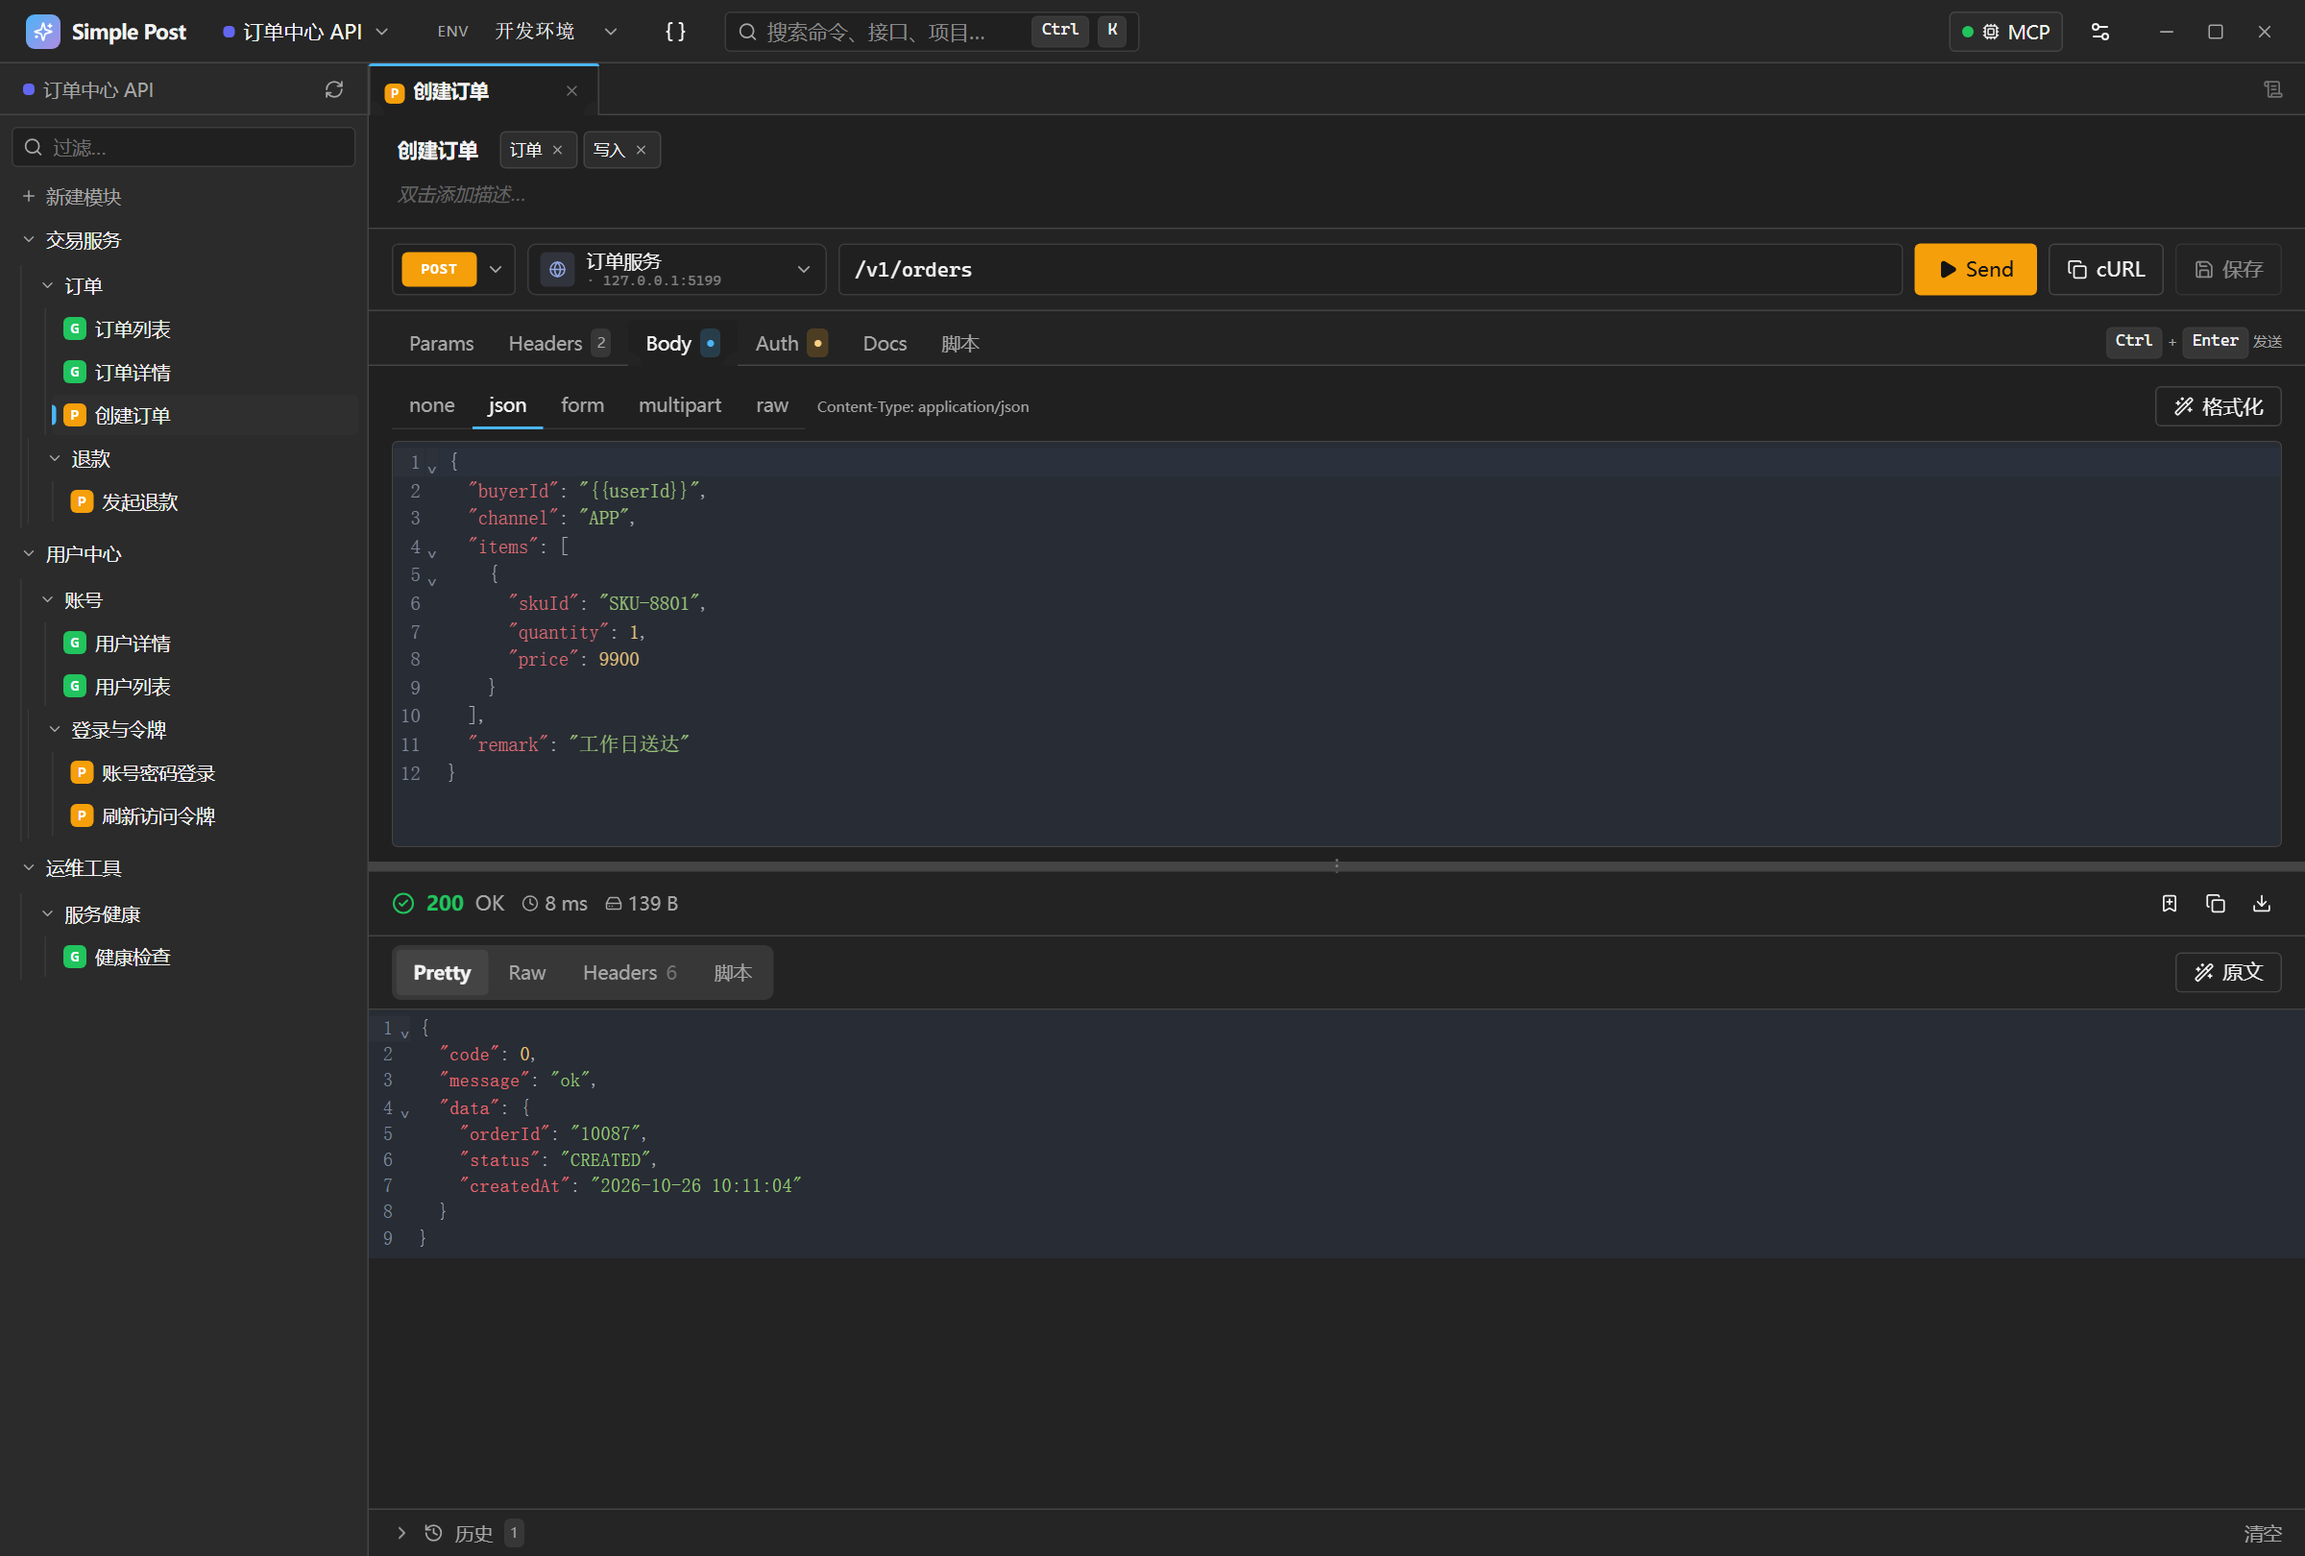
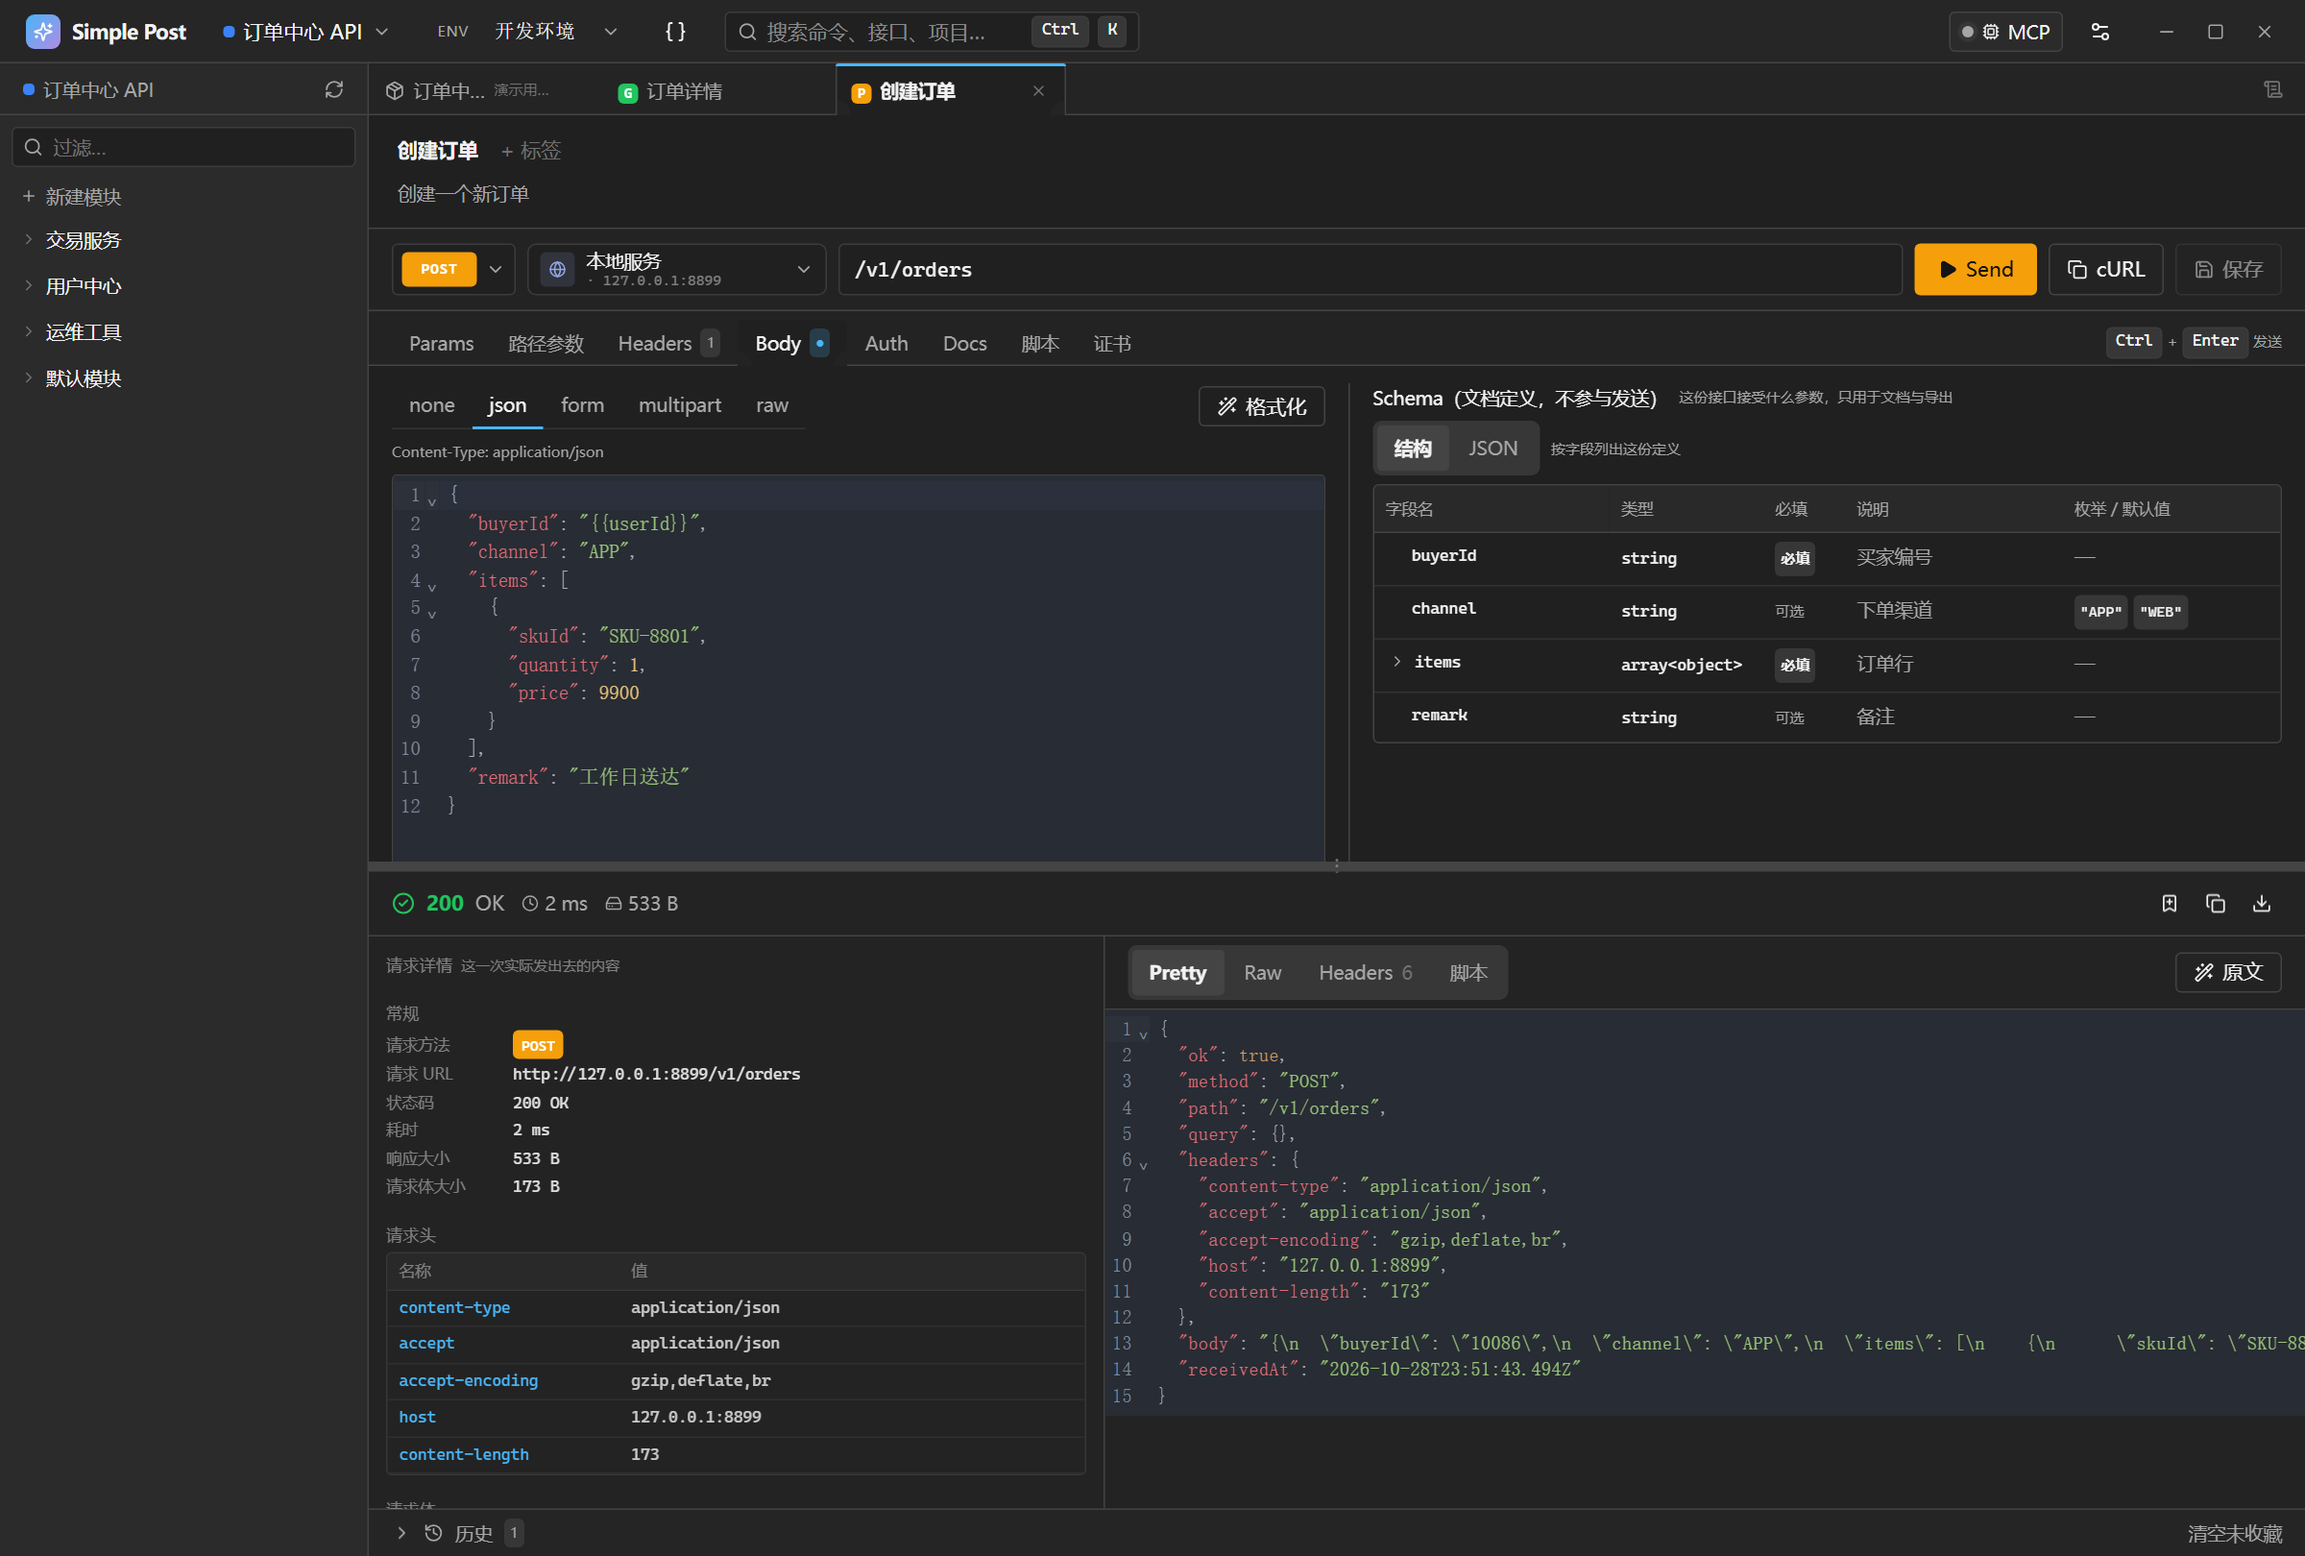
docs: 同步被界面改动作废的截图，并把新面板写进 README 与 AGENTS.md
界面重排让 README 里三张截图过时了（工作区、请求体、请求设置），按同一套演示数据
（订单中心 API / 交易服务 / 用户中心 / 运维工具）重拍，并新增「请求详情」左栏那一张。

AGENTS.md 补四条不变量：变量提示只覆盖会被 `{{var}}` 替换的取值栏、响应区左栏画的是
线上那一份请求头（含传输层补的四条，且由线路级测试钉住）、存进历史的那份请求是解析
之后的那一份、收藏与保留条数是两条独立的规则。

diff --git a/AGENTS.md b/AGENTS.md
@@ -53,7 +53,15 @@ The parent/child relationship is an **enforced contract**, not a convention: `Re
 
 **偏好键与主题解析只有一处定义。** `simple-post:prefs` 这个键与「什么算合法主题」的判断写在 `src/lib/theme-boot/index.ts`。三处从它派生：`index.html` 的 `<head>` 里那段同步脚本由 `vite.config.ts` 的 `themeBootPlugin` 在**构建期**从这份源码生成（内联脚本是 classic script，浏览器不允许它 import 模块，故插件把唯一的默认导出改写成全局赋值，共享模块因此必须运行时零依赖）；store 的初值与「记住上次停留的项目」也从它读。**校验不能省**：存下来的主题必须过 `resolveTheme`，非法值回落到 `dark` —— 少了这一步，store 会把非法值当主题存下，而 `useIsDark` 只认 `dark` 与 `light`、其余按「跟系统」处理，于是首帧画深色、随后 React 画系统色。
 
-**请求体的两份内容：`content` 是载荷，`schema` 是定义.** `RequestBody` 有两个字段回答不同的问题：`content` 是这一次发出的载荷，`schema` 是文档里那份参数定义（JSON Schema，只用于文档与 OpenAPI 导出，**从不上线**）。两者都是 JSON 对象、形状接近，合成一个输入框时 AI 写接口定义就会把 Schema 当载荷发出去。故界面给它们两个编辑器（`BodyEditor.tsx` 的载荷区与折叠的 Schema 区），MCP 侧的工具描述逐字写明哪个字段放什么，并在 `endpoint_create` / `endpoint_update` 上设一道门：`RequestBody::payload_may_be_a_schema` 判定载荷「看起来是一份 Schema 且 `schema` 还空着」时拒收（`api_validate_endpoint` 报同一条 issue）。真要把一份 Schema 当载荷发时，把同样的内容也写进 `schema` 即可 —— 那是声明意图，不是写反。**残留的 schema 两边都要看得见**：模式切成 `none` 之后 body 里的 schema 仍在（模式切换保留整个 body），界面因此要在 `none` 下仍给出那块 Schema 区（否则用户删不掉它），导出侧则只在真的要写 `requestBody` 时才收集 schema（`mode = none` 的端点没有 requestBody 可引用，收集了就是 `components.schemas` 里没人引用的孤儿定义）。
+**请求体的两份内容：`content` 是载荷，`schema` 是定义.** `RequestBody` 有两个字段回答不同的问题：`content` 是这一次发出的载荷，`schema` 是文档里那份参数定义（JSON Schema，只用于文档与 OpenAPI 导出，**从不上线**）。两者都是 JSON 对象、形状接近，合成一个输入框时 AI 写接口定义就会把 Schema 当载荷发出去。故界面给它们两个编辑器（`BodyEditor.tsx` 的左边载荷区与右边 Schema 区，两者并排常驻），MCP 侧的工具描述逐字写明哪个字段放什么，并在 `endpoint_create` / `endpoint_update` 上设一道门：`RequestBody::payload_may_be_a_schema` 判定载荷「看起来是一份 Schema 且 `schema` 还空着」时拒收（`api_validate_endpoint` 报同一条 issue）。真要把一份 Schema 当载荷发时，把同样的内容也写进 `schema` 即可 —— 那是声明意图，不是写反。**残留的 schema 两边都要看得见**：模式切成 `none` 之后 body 里的 schema 仍在（模式切换保留整个 body），界面因此要在 `none` 下仍给出那块 Schema 区（否则用户删不掉它），导出侧则只在真的要写 `requestBody` 时才收集 schema（`mode = none` 的端点没有 requestBody 可引用，收集了就是 `components.schemas` 里没人引用的孤儿定义）。
+
+**变量提示只覆盖会被替换的取值栏，工具是共用的一份.** 提示工具在 `src/features/http-tester/var-hint/` 下，URL 栏、query 参数值栏、请求头值栏、鉴权值栏与请求体编辑器共用它。**给提示的字段只有那些上线前会被 `{{var}}` 替换的**：query 参数值、请求头值、请求体的内容、鉴权的 token / 账号 / 密码 / API Key 的**值**。名称类字段（参数名、请求头名、API Key 的名、OAuth2 的全部字段）不给提示 —— 它们不参与替换，给了只会把用户引到错的字段上。候选列表只算一次（`model/varEntries.ts::buildVarEntries`，动态变量在前、环境变量在后），经 `TesterShell` 显式下传，不走 Context。
+
+**响应区左栏画的是线上那一份，不是界面上拼的那份.** 响应区分左右两栏：左栏是这一次实际发出去的请求（`RequestSummary`），右栏是收回来的响应，两栏描述同一次调用。**请求头那一段必须是线上那一份** —— 传输层还会补上 `accept` / `accept-encoding` / `host` / `content-length`，界面上写的那几条只是其中一部分。后端 executor 因此在请求发出后把补齐后的请求头报上来（`HttpResponse.request_headers`，由 `http_executor.rs::effective_request_headers` 拼），前端快照优先用它（`requestInput.ts::toRequestSnapshot`），请求从未抵达（超时 / 网络错误 / 中止）时才回落到界面上拼的那几条。**这个值不许靠猜**：`http_executor_test.rs` 用裸 TCP 抓原始请求字节，与上报的值逐条（含顺序）比对，写错一个值那条测试就红。`accept-encoding` 取线路上的原样（逗号后没有空格），不是人读的写法。
+
+**存进历史的那份请求是解析之后的那一份.** 落库的 `StoredRequestSnapshot` 存的是 base URL 已拼接、路径参数已替换、`{{var}}` 已换成取到的值、查询串已追加的那一份。文档里那份模板随时可以再打开看，线上发出去的那一份只有存下来才不会丢。**OAuth2 的 token 只在发出去的那一份里**（预览刻意不含它，否则 cURL 预览会把活凭据渲染进可复制的命令行），故快照取 `sendPreparedRequest` 返回的 `outbound` 而不是 `prepared`。
+
+**收藏与保留条数是两条独立的规则.** 收藏的行永久保留，不参与裁剪；每个接口保留多少条**未收藏**的历史由全局偏好 `response_history.keep` 控制（`preferences` 表的一行，跨项目生效），改这个条数立刻裁库（`trim_all` 只删未收藏行）。界面上的本地列表用同一条规则裁一次（`history-keep.ts::capUnfavorited`），否则屏幕上的行数与库里对不上。`clear` 同样只删未收藏行，界面文案写的是「清空未收藏」。这个条数是**全局的**，故它不在出站请求旋钮那一组里，单独一张卡片。
 
 **请求的装配有两条路径，各自有明确的边界.** 渲染进程组装「这一次发什么」（草稿的未保存编辑只有它知道），后端组装「这个端点是什么」（落库的行）。两条路径的**规则**必须逐条相同，而规则写在两处（TS 的 `prepareRequest` 与 Rust 的 `resolve_endpoint`）—— 故它们由共享样本钉住：`fixtures/resolve-parity.json` 与 `fixtures/multipart-parity.json`，两侧各有一个读取器（`src/lib/__tests__/http-build-parity.test.ts` / `crates/simple-post-mcp/src/variable_fill/resolve_parity_test.rs`，multipart 那对在 `http-build-multipart-parity.test.ts` / `mcp/http_ops/multipart_parity_test.rs`）。**改动任何一条规则就改两处**，否则样本会红。三条易忘的细节：query 里的空格编码成 `%20`（Rust 的 `core::url::percent_encode`，与 JS 的 `encodeURIComponent` 同字符集，**不是** form 编码的 `+`）；multipart 的 `Content-Type` 追加在 header 列表**末尾**（用户自己写过的那条则就地替换它的值）；空 key 的参数不参与查询串，其中的变量也**不**报缺失。
 
